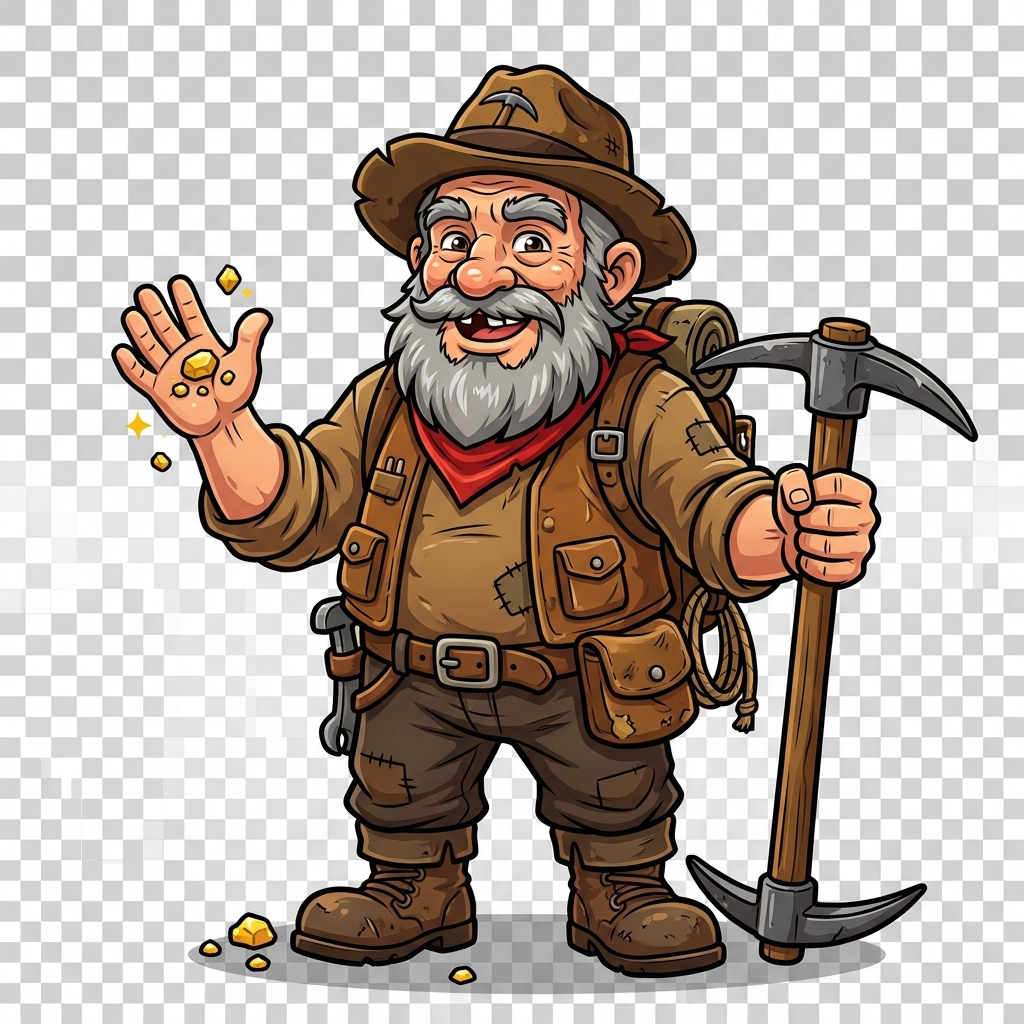
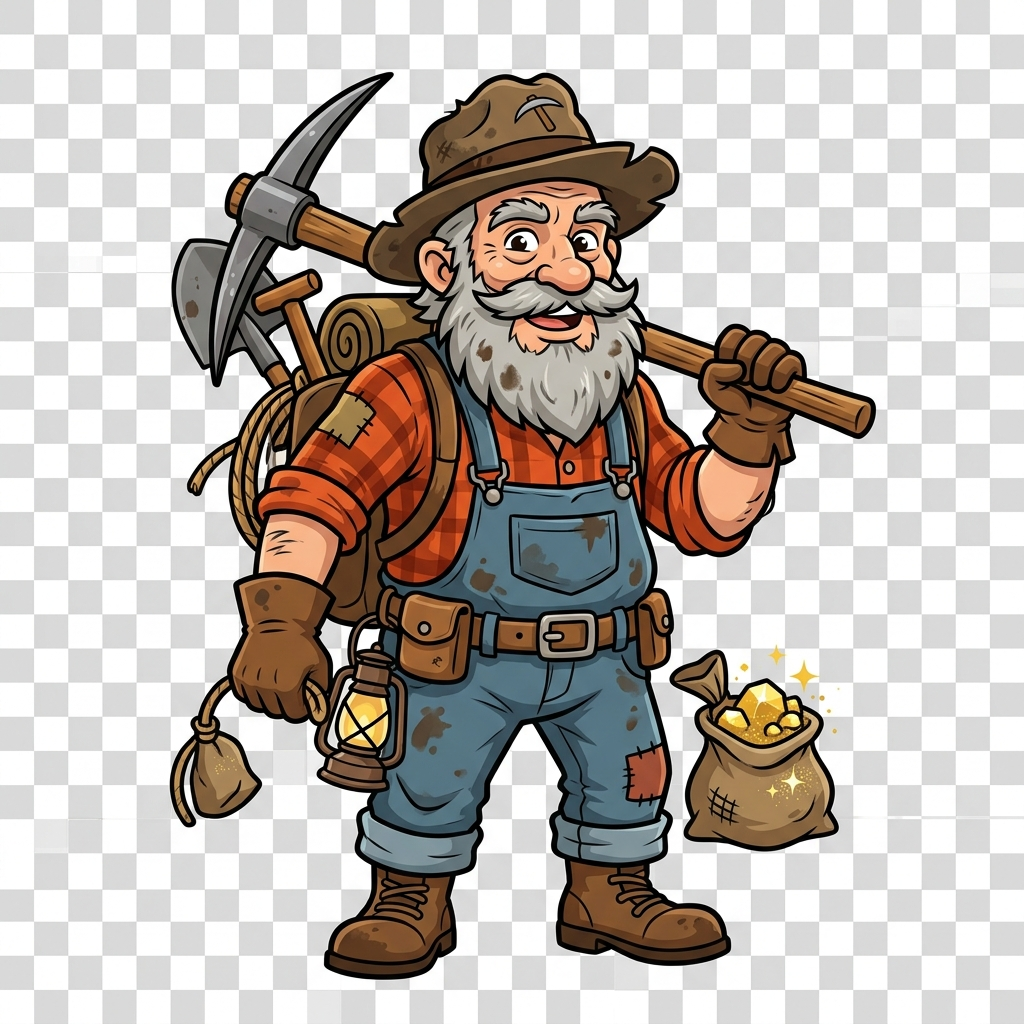
feat: transparent gold miner character and add animated pulling crane motion and gear rotation

diff --git a/miner.js b/miner.js
@@ -350,16 +350,53 @@
         ctx.stroke();
         ctx.shadowBlur = 0; // reset
 
-        // Vẽ thợ đào vàng Cyberpunk ở giữa trên (300, 30)
+        // Tính toán animation kéo tời cho thợ đào vàng
+        let minerOffsetY = 0;
+        let minerAngle = 0;
+        if (state.hook.state === 'RETRIEVING') {
+            // Lắc người nhẹ liên tục mô phỏng đang quay tay quay kéo cáp
+            minerOffsetY = Math.sin(Date.now() * 0.02) * 4;
+            minerAngle = Math.sin(Date.now() * 0.02) * 0.06;
+        }
+
+        // Vẽ thợ đào vàng cổ điển ở giữa trên (300, 30)
+        ctx.save();
+        ctx.translate(300, 35 + minerOffsetY);
+        ctx.rotate(minerAngle);
         try {
-            ctx.drawImage(imgMiner, 300 - 35, 5, 70, 70);
+            ctx.drawImage(imgMiner, -35, -30, 70, 70);
         } catch (e) {
-            // Fallback vẽ cụm máy tời nếu ảnh chưa load kịp
+            // Fallback
             ctx.fillStyle = '#b026ff';
             ctx.beginPath();
-            ctx.arc(300, HOOK_START_Y, 15, 0, Math.PI * 2);
+            ctx.arc(0, 15, 15, 0, Math.PI * 2);
             ctx.fill();
         }
+        ctx.restore();
+
+        // Vẽ ròng rọc quay (pulley animation) ở trục quay
+        ctx.save();
+        ctx.translate(300, HOOK_START_Y + 15);
+        if (state.hook.state === 'RETRIEVING') {
+            // Xoay liên tục khi đang kéo đồ
+            ctx.rotate(Date.now() * 0.015);
+        }
+        // Vẽ đĩa xích ròng rọc neon màu tím
+        ctx.strokeStyle = '#b026ff';
+        ctx.lineWidth = 2.5;
+        ctx.shadowBlur = 5;
+        ctx.shadowColor = '#b026ff';
+        ctx.beginPath();
+        ctx.arc(0, 0, 8, 0, Math.PI * 2);
+        ctx.stroke();
+        // Vẽ 4 nan hoa nhỏ xoay theo
+        for (let i = 0; i < 4; i++) {
+            ctx.beginPath();
+            ctx.moveTo(0, 0);
+            ctx.lineTo(Math.cos(i * Math.PI / 2) * 8, Math.sin(i * Math.PI / 2) * 8);
+            ctx.stroke();
+        }
+        ctx.restore();
 
         // Vẽ đầu móc
         ctx.strokeStyle = '#00f0ff';